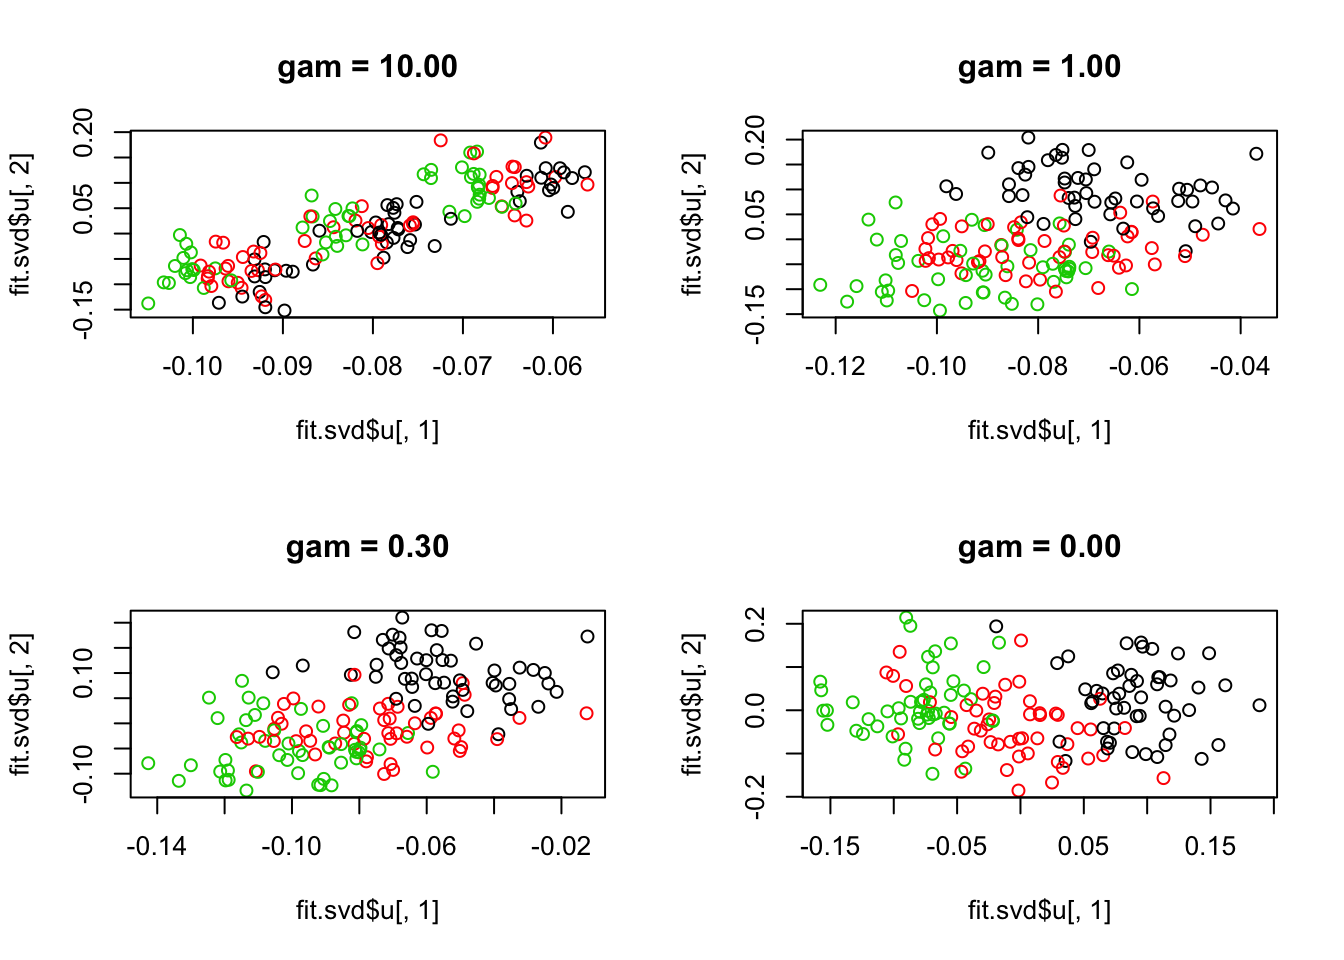
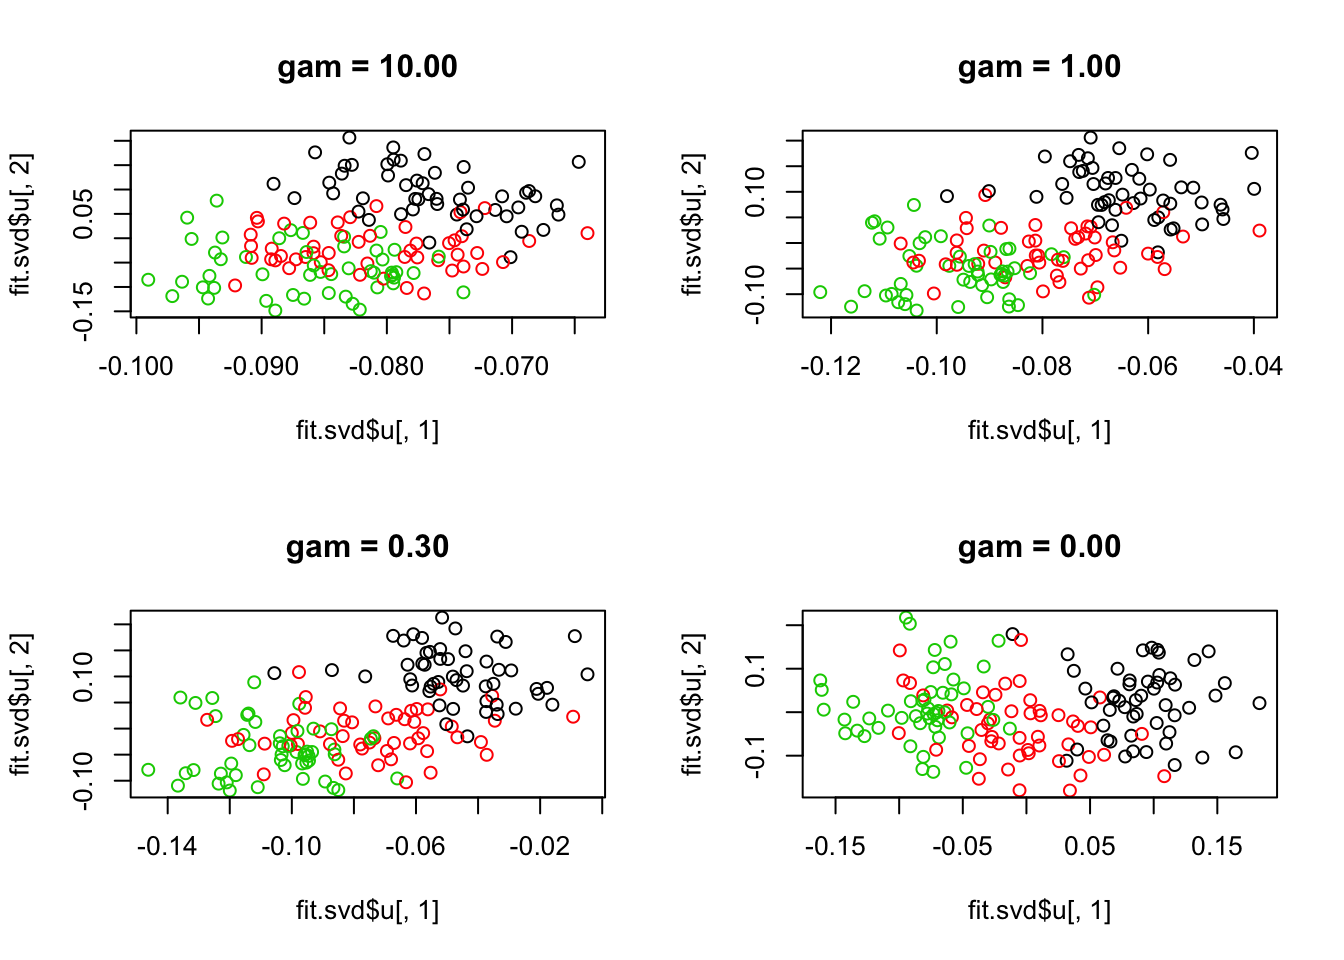
Build site.

diff --git a/docs/AnchorPCA0.html b/docs/AnchorPCA0.html
@@ -504,16 +504,16 @@ This reproducible <a href="http://rmarkdown.rstudio.com">R Markdown</a> analysis
 <div class="panel panel-default">
 <div class="panel-heading">
 <p class="panel-title">
-<a data-toggle="collapse" data-parent="#workflowr-checks" href="#strongRepositoryversionstrongahrefhttpsgithubcomzihao12statsNotestreef9d4a15fe3bbf217ec7e401b5cd3f74f91839175targetblankf9d4a15a"> <span class="glyphicon glyphicon-ok text-success" aria-hidden="true"></span> <strong>Repository version:</strong> <a href="https://github.com/zihao12/statsNotes/tree/f9d4a15fe3bbf217ec7e401b5cd3f74f91839175" target="_blank">f9d4a15</a> </a>
+<a data-toggle="collapse" data-parent="#workflowr-checks" href="#strongRepositoryversionstrongahrefhttpsgithubcomzihao12statsNotestree0501c956b919a987ced7ba194e798276d62e05e6targetblank0501c95a"> <span class="glyphicon glyphicon-ok text-success" aria-hidden="true"></span> <strong>Repository version:</strong> <a href="https://github.com/zihao12/statsNotes/tree/0501c956b919a987ced7ba194e798276d62e05e6" target="_blank">0501c95</a> </a>
 </p>
 </div>
[2 lines of base64/hex data omitted]
 <div class="panel-body">
 <p>
 Great! You are using Git for version control. Tracking code development and connecting the code version to the results is critical for reproducibility.
 </p>
 <p>
-The results in this page were generated with repository version <a href="https://github.com/zihao12/statsNotes/tree/f9d4a15fe3bbf217ec7e401b5cd3f74f91839175" target="_blank">f9d4a15</a>. See the <em>Past versions</em> tab to see a history of the changes made to the R Markdown and HTML files.
+The results in this page were generated with repository version <a href="https://github.com/zihao12/statsNotes/tree/0501c956b919a987ced7ba194e798276d62e05e6" target="_blank">0501c95</a>. See the <em>Past versions</em> tab to see a history of the changes made to the R Markdown and HTML files.
 </p>
 <p>
 Note that you need to be careful to ensure that all relevant files for the analysis have been committed to Git prior to generating the results (you can use <code>wflow_publish</code> or <code>wflow_git_commit</code>). workflowr only checks the R Markdown file, but you know if there are other scripts or data files that it depends on. Below is the status of the Git repository when the results were generated:
@@ -580,6 +580,40 @@ Message
 Rmd
 </td>
 <td>
+<a href="https://github.com/zihao12/statsNotes/blob/0501c956b919a987ced7ba194e798276d62e05e6/analysis/AnchorPCA0.Rmd" target="_blank">0501c95</a>
+</td>
+<td>
+zihao12
+</td>
+<td>
+2021-05-27
+</td>
+<td>
+anchorpca
+</td>
+</tr>
+<tr>
+<td>
+html
+</td>
+<td>
+<a href="https://rawcdn.githack.com/zihao12/statsNotes/87f546081c2961991cce61409855ac93e65ded1b/docs/AnchorPCA0.html" target="_blank">87f5460</a>
+</td>
+<td>
+zihao12
+</td>
+<td>
+2021-05-27
+</td>
+<td>
+Build site.
+</td>
+</tr>
+<tr>
+<td>
+Rmd
+</td>
+<td>
 <a href="https://github.com/zihao12/statsNotes/blob/f9d4a15fe3bbf217ec7e401b5cd3f74f91839175/analysis/AnchorPCA0.Rmd" target="_blank">f9d4a15</a>
 </td>
 <td>
@@ -621,7 +655,45 @@ fit.svd= svd(x = df[,1:4],nu = 2,nv = 2)
 fit.svd$d</code></pre>
 <pre><code>[1] 95.959914 17.761034  3.460931  1.884826</code></pre>
 <pre class="r"><code>plot(fit.svd$u[,1], fit.svd$u[,2],col = df$Species)</code></pre>
-<p><img src="figure/AnchorPCA0.Rmd/unnamed-chunk-2-1.png" width="672" style="display: block; margin: auto;" /> There is clear structure to separate species.</p>
+<p><img src="figure/AnchorPCA0.Rmd/unnamed-chunk-2-1.png" width="672" style="display: block; margin: auto;" /></p>
+<p>
+<button type="button" class="btn btn-default btn-xs btn-workflowr btn-workflowr-fig" data-toggle="collapse" data-target="#fig-unnamed-chunk-2-1">
+Past versions of unnamed-chunk-2-1.png
+</button>
+</p>
+<div id="fig-unnamed-chunk-2-1" class="collapse">
+<div class="table-responsive">
+<table class="table table-condensed table-hover">
+<thead>
+<tr>
+<th>
+Version
+</th>
+<th>
+Author
+</th>
+<th>
+Date
+</th>
+</tr>
+</thead>
+<tbody>
+<tr>
+<td>
+<a href="https://github.com/zihao12/statsNotes/blob/87f546081c2961991cce61409855ac93e65ded1b/docs/figure/AnchorPCA0.Rmd/unnamed-chunk-2-1.png" target="_blank">87f5460</a>
+</td>
+<td>
+zihao12
+</td>
+<td>
+2021-05-27
+</td>
+</tr>
+</tbody>
+</table>
+</div>
+</div>
+<p>There is clear structure to separate species.</p>
 <div id="create-artifical-batch-effect-and-try-pca" class="section level2">
 <h2>Create artifical batch effect and try PCA</h2>
 <p>I give different shifts for different batch ids.</p>
@@ -630,7 +702,7 @@ fit.svd$d</code></pre>
 <pre class="r"><code>par(mfrow = c(2,2))
 df_ = df
 df_[,&quot;batch&quot;] = sample(as.integer(df_$Species),size = n, replace = FALSE)
-batch_shift = c(0.5, 2,3)
+batch_shift = c(0, 0.5,1)
 for(i in 1:3){
   l = sum(df_$batch == i)
   df_[df_$batch == i, 1:4] = df_[df_$batch == i, 1:4] + 
@@ -645,6 +717,43 @@ for(gam in c(10, 1, 0.3, 0)){
   plot(fit.svd$u[,1], fit.svd$u[,2],col = df_$Species, main = sprintf(&quot;gam = %.2f&quot;, gam))
 }</code></pre>
 <p><img src="figure/AnchorPCA0.Rmd/unnamed-chunk-3-1.png" width="672" style="display: block; margin: auto;" /></p>
+<p>
+<button type="button" class="btn btn-default btn-xs btn-workflowr btn-workflowr-fig" data-toggle="collapse" data-target="#fig-unnamed-chunk-3-1">
+Past versions of unnamed-chunk-3-1.png
+</button>
+</p>
+<div id="fig-unnamed-chunk-3-1" class="collapse">
+<div class="table-responsive">
+<table class="table table-condensed table-hover">
+<thead>
+<tr>
+<th>
+Version
+</th>
+<th>
+Author
+</th>
+<th>
+Date
+</th>
+</tr>
+</thead>
+<tbody>
+<tr>
+<td>
+<a href="https://github.com/zihao12/statsNotes/blob/87f546081c2961991cce61409855ac93e65ded1b/docs/figure/AnchorPCA0.Rmd/unnamed-chunk-3-1.png" target="_blank">87f5460</a>
+</td>
+<td>
+zihao12
+</td>
+<td>
+2021-05-27
+</td>
+</tr>
+</tbody>
+</table>
+</div>
+</div>
 </div>
 <div id="if-the-batch-id-is-highly-correlated-with-species" class="section level3">
 <h3>if the batch id is highly correlated with species</h3>
@@ -652,7 +761,7 @@ for(gam in c(10, 1, 0.3, 0)){
 <pre class="r"><code>par(mfrow = c(2,2))
 df_ = df
 df_[,&quot;batch&quot;] = as.integer(df_$Species)
-batch_shift = c(0.5, 2,3)
+batch_shift = c(0, 0.5,1)
 for(i in 1:3){
   l = sum(df_$batch == i)
   df_[df_$batch == i, 1:4] = df_[df_$batch == i, 1:4] +
@@ -667,6 +776,43 @@ for(gam in c(10, 1, 0.3, 0)){
   plot(fit.svd$u[,1], fit.svd$u[,2],col = df_$Species, main = sprintf(&quot;gam = %.2f&quot;, gam))
 }</code></pre>
 <p><img src="figure/AnchorPCA0.Rmd/unnamed-chunk-4-1.png" width="672" style="display: block; margin: auto;" /></p>
+<p>
+<button type="button" class="btn btn-default btn-xs btn-workflowr btn-workflowr-fig" data-toggle="collapse" data-target="#fig-unnamed-chunk-4-1">
+Past versions of unnamed-chunk-4-1.png
+</button>
+</p>
+<div id="fig-unnamed-chunk-4-1" class="collapse">
+<div class="table-responsive">
+<table class="table table-condensed table-hover">
+<thead>
+<tr>
+<th>
+Version
+</th>
+<th>
+Author
+</th>
+<th>
+Date
+</th>
+</tr>
+</thead>
+<tbody>
+<tr>
+<td>
+<a href="https://github.com/zihao12/statsNotes/blob/87f546081c2961991cce61409855ac93e65ded1b/docs/figure/AnchorPCA0.Rmd/unnamed-chunk-4-1.png" target="_blank">87f5460</a>
+</td>
+<td>
+zihao12
+</td>
+<td>
+2021-05-27
+</td>
+</tr>
+</tbody>
+</table>
+</div>
+</div>
 <br>
 <p>
 <button type="button" class="btn btn-default btn-workflowr btn-workflowr-sessioninfo" data-toggle="collapse" data-target="#workflowr-sessioninfo" style="display: block;">
